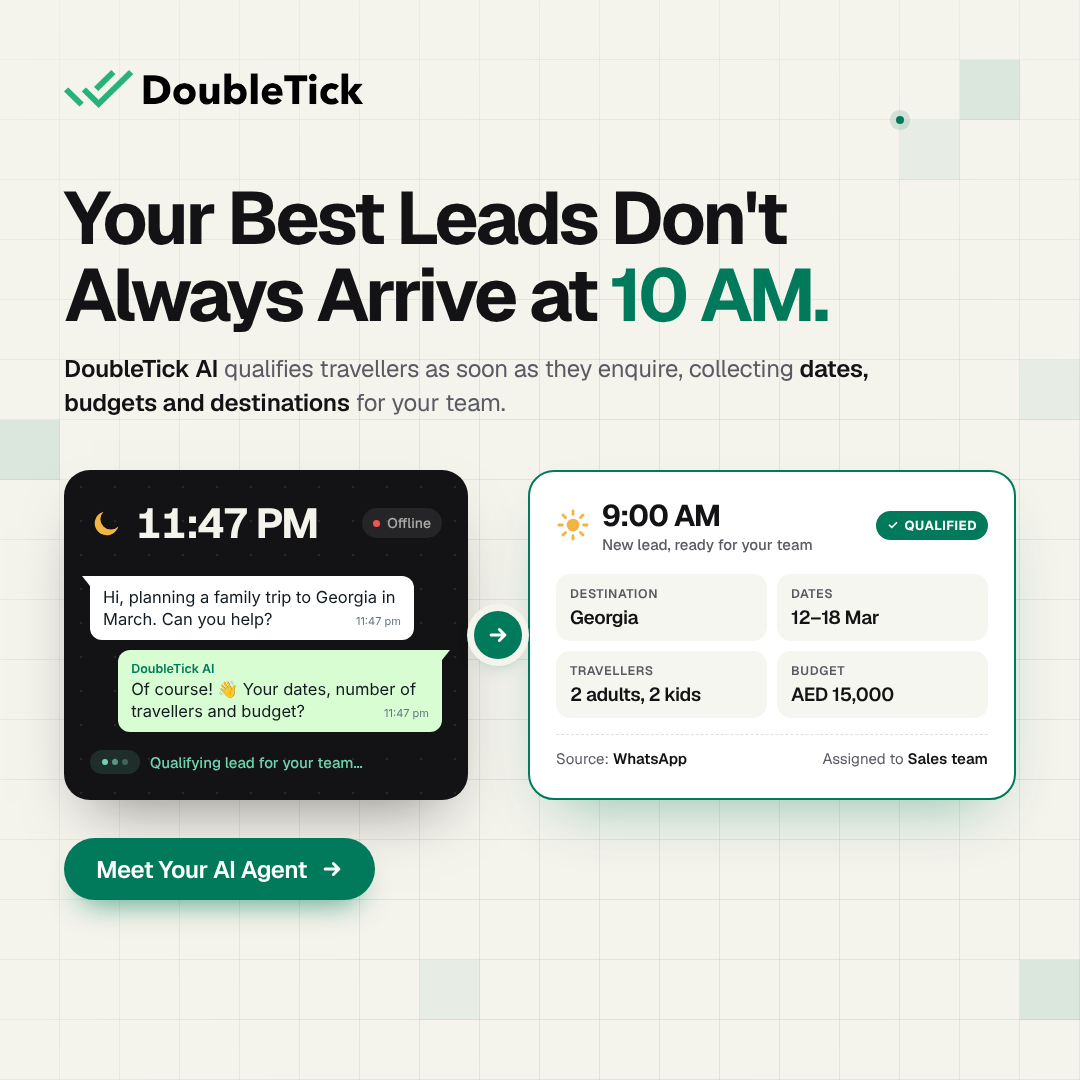
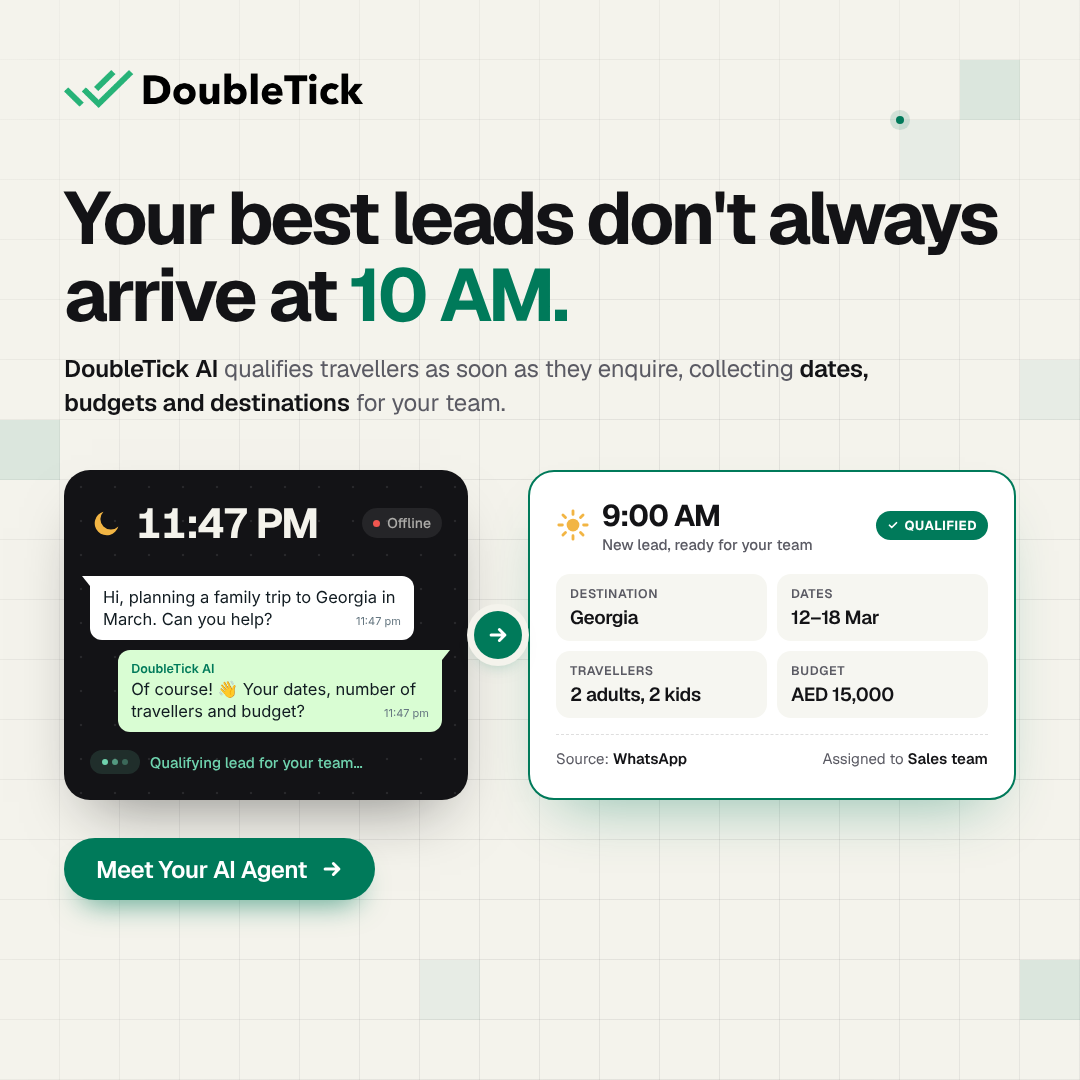
fix: sentence-case hook in morning leads ad
Claude-Session: https://claude.ai/code/session_01U68wzeZAut9FRgfZMxNXRM

Changed region(s): [[0.0611, 0.1528, 0.9472, 0.3056]]

diff --git a/ads/doubletick-morning-leads/index.html b/ads/doubletick-morning-leads/index.html
@@ -104,7 +104,7 @@
   <img class="logo" src="doubletick-logo.webp" alt="DoubleTick" />
 
   <!-- copy -->
-  <h1 class="headline">Your Best Leads Don't Always Arrive at <span class="hl">10 AM.</span></h1>
+  <h1 class="headline">Your best leads don't always arrive at <span class="hl">10 AM.</span></h1>
   <p class="sub"><b>DoubleTick AI</b> qualifies travellers as soon as they enquire, collecting <b>dates, budgets and destinations</b> for your team.</p>
 
   <!-- night-time enquiry -->
